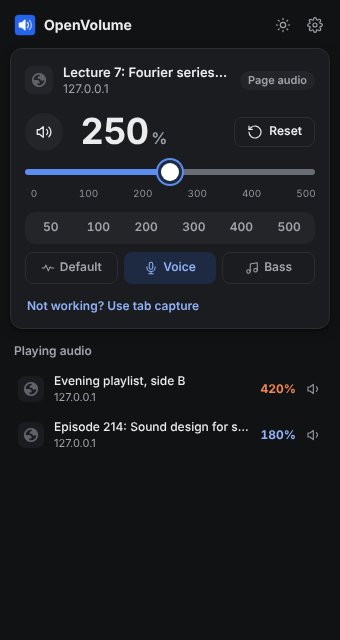
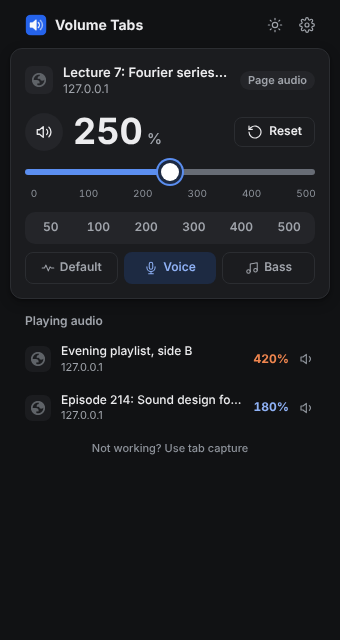
refactor: rename OpenVolume to Volume Tabs
New name, store titles, Firefox add-on id, repository URL and package
names. Internal message and storage prefixes change from ov to vt.

Claude-Session: https://claude.ai/code/session_01HpdvNBckZY9ZMXfpgd2JUH

diff --git a/src/background/core.js b/src/background/core.js
@@ -87,7 +87,7 @@ export function startBackground(backend) {
   const handlers = {
     // The popup opened: report the tab's state. If the tab should be boosted but
     // is not (e.g. it was reloaded), opening the popup grants access again, so re-apply.
-    'ov:get': ({ tabId }) =>
+    'vt:get': ({ tabId }) =>
       serial(tabId, async () => {
         const record = await loadRecord(tabId);
         if (!isNeutral(record.settings) && record.engine === null) return commit(tabId, record);
@@ -100,7 +100,7 @@ export function startBackground(backend) {
         return view(record, { info: info || null });
       }),
 
-    'ov:set': ({ tabId, settings, forceCapture }) =>
+    'vt:set': ({ tabId, settings, forceCapture }) =>
       serial(tabId, async () => {
         const record = await loadRecord(tabId);
         record.settings = sanitizeSettings(settings, record.settings);
@@ -113,7 +113,7 @@ export function startBackground(backend) {
         return commit(tabId, record);
       }),
 
-    'ov:reset': ({ tabId }) =>
+    'vt:reset': ({ tabId }) =>
       serial(tabId, async () => {
         const record = await loadRecord(tabId);
         await backend.release(tabId, record);
@@ -124,7 +124,7 @@ export function startBackground(backend) {
       }),
 
     // Used by the popup's tab list.
-    'ov:list': async () => {
+    'vt:list': async () => {
       const all = await api.storage.session.get(null);
       const tabs = {};
       for (const [key, value] of Object.entries(all)) {
@@ -140,7 +140,7 @@ export function startBackground(backend) {
     if (sender.id !== api.runtime.id || !String(sender.url ?? '').startsWith(EXT_ORIGIN)) return false;
     const handler = handlers[message?.type];
     if (!handler) return false;
-    if (message.type !== 'ov:list' && !isTabId(message.tabId)) {
+    if (message.type !== 'vt:list' && !isTabId(message.tabId)) {
       sendResponse({ ok: false, error: 'error', detail: 'invalid tab' });
       return false;
     }
@@ -155,7 +155,7 @@ export function startBackground(backend) {
     tab ??= (await api.tabs.query({ active: true, lastFocusedWindow: true }))[0];
     if (!isTabId(tab?.id)) return;
     if (command === 'volume-reset') {
-      await handlers['ov:reset']({ tabId: tab.id });
+      await handlers['vt:reset']({ tabId: tab.id });
       return;
     }
     await serial(tab.id, async () => {

diff --git a/src/offscreen/offscreen.js b/src/offscreen/offscreen.js
@@ -16,7 +16,7 @@ function scheduleRelease(tabId, session, neutral) {
   session.timer = neutral
     ? setTimeout(() => {
         stop(tabId);
-        chrome.runtime.sendMessage({ type: 'ov:capture-ended', tabId }).catch(() => {});
+        chrome.runtime.sendMessage({ type: 'vt:capture-ended', tabId }).catch(() => {});
       }, RELEASE_DELAY)
     : null;
 }
@@ -41,7 +41,7 @@ async function start({ tabId, streamId, settings, neutral }) {
   const ac = context();
   if (ac.state !== 'running') await ac.resume();
   const source = ac.createMediaStreamSource(stream);
-  const chain = globalThis.OpenVolumeAudio.createChain(ac);
+  const chain = globalThis.VolumeTabsAudio.createChain(ac);
   chain.apply(settings, true);
   source.connect(chain.input);
 
@@ -52,7 +52,7 @@ async function start({ tabId, streamId, settings, neutral }) {
     track.addEventListener('ended', () => {
       if (sessions.get(tabId) !== session) return;
       stop(tabId);
-      chrome.runtime.sendMessage({ type: 'ov:capture-ended', tabId }).catch(() => {});
+      chrome.runtime.sendMessage({ type: 'vt:capture-ended', tabId }).catch(() => {});
     });
   }
   scheduleRelease(tabId, session, neutral);
@@ -68,10 +68,10 @@ function update({ tabId, settings, neutral }) {
 }
 
 const commands = {
-  'ov-offscreen:start': start,
-  'ov-offscreen:update': update,
-  'ov-offscreen:stop': ({ tabId }) => ({ ok: true, stopped: stop(tabId) }),
-  'ov-offscreen:status': () => ({ ok: true, tabs: [...sessions.keys()] }),
+  'vt-offscreen:start': start,
+  'vt-offscreen:update': update,
+  'vt-offscreen:stop': ({ tabId }) => ({ ok: true, stopped: stop(tabId) }),
+  'vt-offscreen:status': () => ({ ok: true, tabs: [...sessions.keys()] }),
 };
 
 chrome.runtime.onMessage.addListener((message, sender, sendResponse) => {

diff --git a/src/background/chrome-backend.js b/src/background/chrome-backend.js
@@ -34,7 +34,7 @@ async function ensureOffscreen() {
 
 async function offscreen(command, payload = {}) {
   if (!(await hasOffscreen())) return null;
-  return chrome.runtime.sendMessage({ type: `ov-offscreen:${command}`, ...payload });
+  return chrome.runtime.sendMessage({ type: `vt-offscreen:${command}`, ...payload });
 }
 
 async function capturedTabs() {
@@ -72,7 +72,7 @@ export const chromeBackend = {
   init({ engineEnded }) {
     chrome.runtime.onMessage.addListener((message, sender) => {
       if (sender.id !== chrome.runtime.id || sender.url !== OFFSCREEN_URL) return false;
-      if (message?.type === 'ov:capture-ended' && Number.isInteger(message.tabId)) {
+      if (message?.type === 'vt:capture-ended' && Number.isInteger(message.tabId)) {
         engineEnded(message.tabId, 'capture').then(closeOffscreenIfIdle);
       }
       return false;

diff --git a/src/content/page-engine.js b/src/content/page-engine.js
@@ -4,7 +4,7 @@
 // cannot see or call it, and it never reads or sends page content anywhere.
 (() => {
   'use strict';
-  if (globalThis.__openVolumePage || !globalThis.OpenVolumeAudio) return;
+  if (globalThis.__volumeTabsPage || !globalThis.VolumeTabsAudio) return;
 
   const DEEP_SCAN_INTERVAL = 2000;
   const RESUME_TIMEOUT = 400;
@@ -114,7 +114,7 @@
   async function ensureContext() {
     if (!ctx) {
       ctx = new AudioContext();
-      chain = globalThis.OpenVolumeAudio.createChain(ctx);
+      chain = globalThis.VolumeTabsAudio.createChain(ctx);
       chain.apply(settings, true);
     }
     if (ctx.state !== 'running') {
@@ -149,5 +149,5 @@
     return stats();
   }
 
-  globalThis.__openVolumePage = Object.freeze({ set, stats });
+  globalThis.__volumeTabsPage = Object.freeze({ set, stats });
 })();

diff --git a/src/background/page-host.js b/src/background/page-host.js
@@ -56,8 +56,8 @@ function aggregate(results) {
   return info.frames > 0 ? info : null;
 }
 
-const setInPage = (settings, neutral) => (globalThis.__openVolumePage ? globalThis.__openVolumePage.set(settings, neutral) : null);
-const statsInPage = () => (globalThis.__openVolumePage ? globalThis.__openVolumePage.stats() : null);
+const setInPage = (settings, neutral) => (globalThis.__volumeTabsPage ? globalThis.__volumeTabsPage.set(settings, neutral) : null);
+const statsInPage = () => (globalThis.__volumeTabsPage ? globalThis.__volumeTabsPage.stats() : null);
 
 export async function applyPage(tabId, settings) {
   const details = { func: setInPage, args: [settings, isNeutral(settings)] };

diff --git a/src/shared/audio-chain.js b/src/shared/audio-chain.js
@@ -4,7 +4,7 @@
 // Classic script (not a module) so it can be injected as a content script too.
 (() => {
   'use strict';
-  if (globalThis.OpenVolumeAudio) return;
+  if (globalThis.VolumeTabsAudio) return;
 
   const BASS = { frequency: 100, gain: 10 };
   const VOICE_CUT = { frequency: 250, Q: 0.9, gain: -3 };
@@ -56,5 +56,5 @@
     return { input, apply, disconnect };
   }
 
-  globalThis.OpenVolumeAudio = Object.freeze({ createChain });
+  globalThis.VolumeTabsAudio = Object.freeze({ createChain });
 })();

diff --git a/src/popup/theme-boot.js b/src/popup/theme-boot.js
@@ -1,7 +1,7 @@
 // Applies the saved theme before the first paint (prefs load asynchronously).
 // Until the user picks one, the popup follows the system theme.
 try {
-  const theme = localStorage.getItem('ov-theme');
+  const theme = localStorage.getItem('vt-theme');
   if (theme === 'light' || theme === 'dark') document.documentElement.dataset.theme = theme;
 } catch {
   // storage unavailable: follow the system theme

diff --git a/DESIGN.md b/DESIGN.md
@@ -1,5 +1,5 @@
 ---
-name: OpenVolume
+name: Volume Tabs
 description: A plain, modern per-tab volume popup in two themes, with a neutral grey ground, white or near-black cards and one blue accent.
 colors:
   bg: "#f4f5f7"
@@ -204,13 +204,13 @@ components:
     padding: "7px 12px"
 ---
 
-# Design System: OpenVolume
+# Design System: Volume Tabs
 
 ## Overview
 
 **Creative North Star: "The Category Standard, Played Straight"**
 
-OpenVolume looks like the volume popup people already expect from a well-made browser extension, and nothing more. There is no concept, no metaphor and no ornament: a neutral grey ground, one white (light) or near-black (dark) card that holds every control for the current tab, a row list of other playing tabs below it, and a single blue accent that marks what is filled, toggled, focused or clickable. The craft shows in alignment, contrast and state, not in decoration.
+Volume Tabs looks like the volume popup people already expect from a well-made browser extension, and nothing more. There is no concept, no metaphor and no ornament: a neutral grey ground, one white (light) or near-black (dark) card that holds every control for the current tab, a row list of other playing tabs below it, and a single blue accent that marks what is filled, toggled, focused or clickable. The craft shows in alignment, contrast and state, not in decoration.
 
 The popup is dense and fixed at 340px wide, built for a few seconds of use on a tab that is already playing. The level numeral is the largest thing on screen; every other element is a familiar control (slider, segmented presets, toggle buttons, iOS-style switches, a round mute button) at small product-UI sizes. Exactly two themes exist. The first open follows the operating system, then one header toggle switches and remembers the choice.
 
@@ -270,7 +270,7 @@ A cool neutral grey family carries the whole interface; one saturated blue and o
 ### Hierarchy
 - **Display** (650, 36px, 1.1, -0.02em, tabular): the editable level numeral only, followed by a muted 15px/600 percent sign.
 - **Headline** (650, 15px, 1.4): the settings view title.
-- **Title** (650, 14px, 1.4): the OpenVolume name in the header.
+- **Title** (650, 14px, 1.4): the Volume Tabs name in the header.
 - **Body Strong** (600, 13px, 1.4): the current tab title and settings option names.
 - **Body** (400, 13px, 1.4): default running text.
 - **Label** (600, 12px, 1.4): buttons, presets, sound modes, links, section headings, the status text and tab badges. Playing-tab titles use this size at 500.

diff --git a/PRODUCT.md b/PRODUCT.md
@@ -12,7 +12,7 @@ Everyday listeners on laptops and desktops with quiet speakers or headphones: pe
 
 ## Product Purpose
 
-OpenVolume is a browser extension for Chrome (and Chromium browsers) and Firefox that changes the volume of a single tab from 0% to 500%, with a choice of three sound modes: Default, Voice and Bass. Success means the tab is audibly louder (or quieter) immediately, and the user never has to think about how it works.
+Volume Tabs is a browser extension for Chrome (and Chromium browsers) and Firefox that changes the volume of a single tab from 0% to 500%, with a choice of three sound modes: Default, Voice and Bass. Success means the tab is audibly louder (or quieter) immediately, and the user never has to think about how it works.
 
 ## Positioning
 
@@ -23,7 +23,7 @@ An open-source, dependency-free alternative to closed volume boosters: no data c
 - Used from the browser toolbar popup (about 340px wide), opened on the tab that is playing.
 - Typical session: open, drag or type a level (or press a preset), maybe toggle an effect, close. Keyboard shortcuts (Alt+Shift+Up/Down/0) for adjusting without the popup.
 - Secondary jobs: jump to another tab that is playing audio; restore the level last used on a site; reset to 100%.
-- Inspired by the Chrome extension Volume Master, whose users expect quick tab switching; OpenVolume caps the level at 500%.
+- Inspired by the Chrome extension Volume Master, whose users expect quick tab switching; Volume Tabs caps the level at 500%.
 
 ## Capabilities and Constraints
 
@@ -37,7 +37,7 @@ An open-source, dependency-free alternative to closed volume boosters: no data c
 
 ## Brand Commitments
 
-- Name: OpenVolume. Existing toolbar icon in `src/icons/` (speaker with two waves).
+- Name: Volume Tabs. Existing toolbar icon in `src/icons/` (speaker with two waves).
 - Voice: plain and calm; states what happens, never hypes.
 - The user asked for a modest interface with exactly two themes, light and dark: first open follows the OS theme, then a single toggle switches and remembers the choice.
 - Standing preference: a plain, modern, familiar interface with no visual concept or metaphor. Volume Master is the reference for scope and craft level, but the UI must not be a clone of it.

diff --git a/README.md b/README.md
@@ -1,10 +1,10 @@
-# OpenVolume: Volume Booster
+# Volume Tabs
 
 An open-source browser extension that makes any tab louder, up to **500%**, for **Chrome** and **Firefox**. No tracking, no data collection, no network requests.
 
 <p align="center">
-  <img src="docs/popup-light.png" width="300" alt="OpenVolume popup, light theme">
-  <img src="docs/popup-dark.png" width="300" alt="OpenVolume popup, dark theme">
+  <img src="docs/popup-light.png" width="300" alt="Volume Tabs popup, light theme">
+  <img src="docs/popup-dark.png" width="300" alt="Volume Tabs popup, dark theme">
 </p>
 
 ## Features
@@ -45,11 +45,11 @@ See [PRIVACY.md](PRIVACY.md) and [SECURITY.md](SECURITY.md).
 Until store listings are published, install from source. You need [Node.js](https://nodejs.org) 20 or newer; there are no other dependencies.
 
 ```bash
-git clone https://github.com/cngil/openvolume.git
+git clone https://github.com/cngil/volume-tabs.git
 ```
 
 ```bash
-cd openvolume && npm run build
+cd volume-tabs && npm run build
 ```
 
 **Chrome, Edge, Brave:** open `chrome://extensions`, enable *Developer mode*, click *Load unpacked* and select `dist/chrome`.

diff --git a/PRIVACY.md b/PRIVACY.md
@@ -1,6 +1,6 @@
 # Privacy Policy
 
-**In short: OpenVolume does not collect, store or share any personal data.**
+**In short: Volume Tabs does not collect, store or share any personal data.**
 
 - The extension has no servers and makes no network requests. There is no analytics, telemetry, crash reporting or advertising.
 - Audio is processed entirely inside your browser with the Web Audio API. It is never recorded, stored or transmitted.
